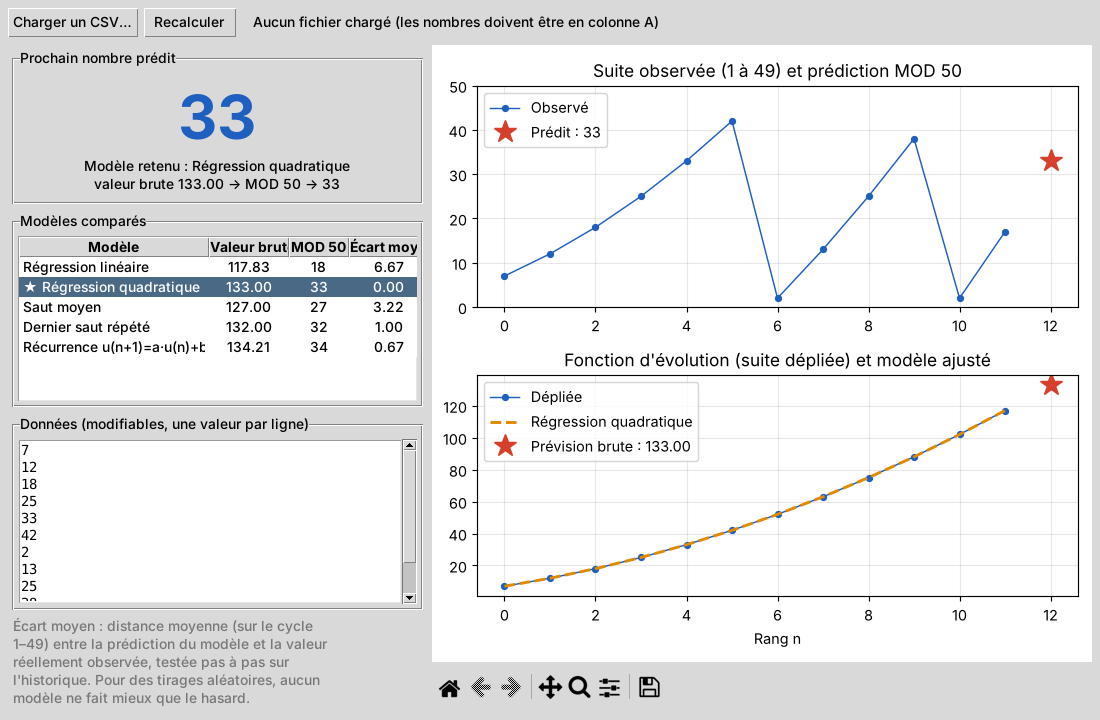
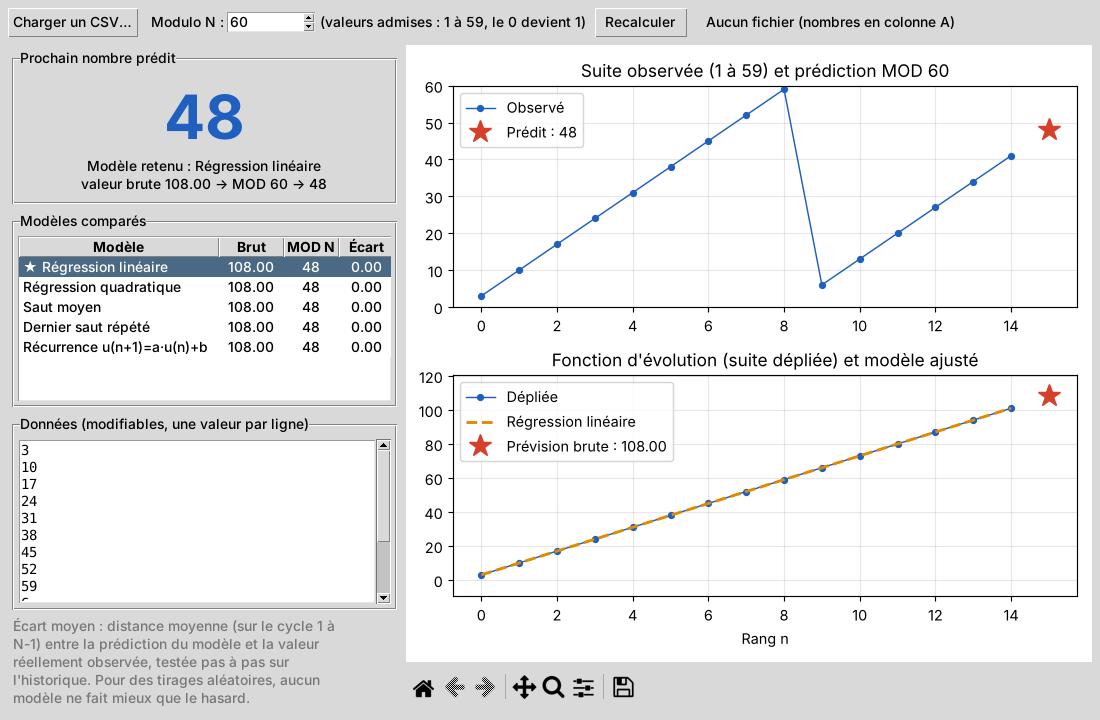
Modulo N au choix (50 par défaut), même méthode de prédiction
Claude-Session: https://claude.ai/code/session_01QraCVY91thQQt767NMuY7g

diff --git a/moteur.py b/moteur.py
@@ -1,14 +1,16 @@
-"""Moteur de modélisation et de prédiction pour les suites de nombres de 1 à 49.
+"""Moteur de modélisation et de prédiction pour les suites de nombres de 1 à N-1.
 
 Principe
 --------
-1. La suite brute u(0..n-1) est "dépliée" : chaque saut u(i) - u(i-1) est ramené
-   modulo 50 dans l'intervalle [-24, 25], puis cumulé. On obtient ainsi une courbe
+Le modulo N est au choix (50 par défaut) ; les valeurs admises vont de 1 à N-1.
+
+1. La suite brute est "dépliée" : chaque saut u(i) - u(i-1) est ramené modulo N
+   dans l'intervalle ]-N/2, N/2], puis cumulé. On obtient ainsi une courbe
    continue qui représente la fonction d'évolution sans les retours à 1.
 2. Plusieurs modèles sont ajustés sur cette courbe dépliée.
 3. Chaque modèle est évalué par validation glissante (on le refait sur le début de la
    suite et on compare sa prédiction à la valeur réellement observée ensuite).
-4. La prédiction est ramenée dans l'intervalle par MOD 50. Le résultat 0 n'étant pas
+4. La prédiction est ramenée dans l'intervalle par MOD N. Le résultat 0 n'étant pas
    admis, un 0 est remplacé par 1 (on passe à la valeur suivante du cycle).
 """
 
@@ -17,29 +19,36 @@ import io
 
 import numpy as np
 
-MODULO = 50
-VAL_MIN, VAL_MAX = 1, 49
+MODULO_DEFAUT = 50
+MODULO_MIN, MODULO_MAX = 3, 100000
 
 
-def mod50(x):
-    """Ramène un nombre réel dans 1..49 avec la règle MOD 50 (0 interdit -> 1)."""
-    r = int(round(x)) % MODULO
+def verifier_modulo(n):
+    n = int(n)
+    if not MODULO_MIN <= n <= MODULO_MAX:
+        raise ValueError(f"Le modulo N doit être compris entre {MODULO_MIN} et {MODULO_MAX}.")
+    return n
+
+
+def reduire(x, n=MODULO_DEFAUT):
+    """Ramène un nombre réel dans 1..N-1 avec la règle MOD N (0 interdit -> 1)."""
+    r = int(round(x)) % n
     return 1 if r == 0 else r
 
 
-def ecart_circulaire(a, b):
-    """Distance entre deux valeurs sur le cycle MOD 50 (0 à 25)."""
-    d = abs(int(a) - int(b)) % MODULO
-    return min(d, MODULO - d)
+def ecart_circulaire(a, b, n=MODULO_DEFAUT):
+    """Distance entre deux valeurs sur le cycle MOD N (0 à N/2)."""
+    d = abs(int(a) - int(b)) % n
+    return min(d, n - d)
 
 
-def deplier(valeurs):
-    """Transforme la suite brute en courbe continue (sauts ramenés dans [-24, 25])."""
+def deplier(valeurs, n=MODULO_DEFAUT):
+    """Transforme la suite brute en courbe continue (sauts ramenés dans ]-N/2, N/2])."""
     out = [float(valeurs[0])]
     for prec, cour in zip(valeurs, valeurs[1:]):
-        saut = (cour - prec) % MODULO
-        if saut > MODULO // 2:
-            saut -= MODULO
+        saut = (cour - prec) % n
+        if saut > n // 2:
+            saut -= n
         out.append(out[-1] + saut)
     return np.array(out)
 
@@ -92,26 +101,32 @@ MODELES = [
 ]
 
 
-def evaluer(fonction, valeurs, minimum):
+def evaluer(fonction, valeurs, minimum, n=MODULO_DEFAUT):
     """Erreur moyenne (sur le cycle) des prédictions faites pas à pas sur l'historique."""
     erreurs = []
     debut = max(minimum, 3)
     for k in range(debut, len(valeurs)):
-        y = deplier(valeurs[:k])
+        y = deplier(valeurs[:k], n)
         try:
             _, p = fonction(y)
         except (np.linalg.LinAlgError, ValueError):
             continue
         if np.isfinite(p):
-            erreurs.append(ecart_circulaire(mod50(p), valeurs[k]))
+            erreurs.append(ecart_circulaire(reduire(p, n), valeurs[k], n))
     return (float(np.mean(erreurs)), len(erreurs)) if erreurs else (float("nan"), 0)
 
 
-def analyser(valeurs):
+def analyser(valeurs, n=MODULO_DEFAUT):
     """Analyse complète. Renvoie un dict avec la courbe dépliée, les modèles et le meilleur."""
     if len(valeurs) < 3:
         raise ValueError("Il faut au moins 3 nombres pour modéliser la suite.")
-    y = deplier(valeurs)
+    n = verifier_modulo(n)
+    hors = [v for v in valeurs if not 1 <= v <= n - 1]
+    if hors:
+        raise ValueError(f"Avec N = {n}, les valeurs doivent être entre 1 et {n - 1}. "
+                         f"Valeur(s) hors intervalle : {', '.join(map(str, sorted(set(hors))[:10]))}. "
+                         f"Choisissez N ≥ {max(valeurs) + 1}.")
+    y = deplier(valeurs, n)
     resultats = []
     for nom, fonction, minimum in MODELES:
         if len(valeurs) < minimum:
@@ -122,12 +137,12 @@ def analyser(valeurs):
             continue
         if not np.isfinite(p):
             continue
-        erreur, nb = evaluer(fonction, valeurs, minimum)
+        erreur, nb = evaluer(fonction, valeurs, minimum, n)
         resultats.append({
             "nom": nom,
             "ajustement": ajust,
             "prediction_brute": p,
-            "prediction": mod50(p),
+            "prediction": reduire(p, n),
             "erreur": erreur,
             "nb_tests": nb,
         })
@@ -135,12 +150,14 @@ def analyser(valeurs):
         raise ValueError("Aucun modèle n'a pu être ajusté sur ces données.")
     testes = [r for r in resultats if r["nb_tests"] > 0]
     meilleur = min(testes, key=lambda r: r["erreur"]) if testes else resultats[0]
-    return {"valeurs": list(valeurs), "deplie": y, "modeles": resultats, "meilleur": meilleur}
+    return {"valeurs": list(valeurs), "n": n, "deplie": y, "modeles": resultats, "meilleur": meilleur}
 
 
 # --------------------------------------------------------------------------- CSV
 def lire_csv(chemin):
-    """Lit la colonne A d'un fichier CSV. Renvoie (valeurs, avertissements)."""
+    """Lit les entiers positifs de la colonne A d'un CSV. Renvoie (valeurs, avertissements).
+
+    La vérification par rapport au modulo N est faite au moment de l'analyse."""
     with open(chemin, "rb") as f:
         brut = f.read()
     for enc in ("utf-8-sig", "cp1252", "latin-1"):
@@ -168,8 +185,8 @@ def lire_csv(chemin):
                 continue  # ligne d'en-tête
             avertissements.append(f"Ligne {num} ignorée : « {ligne[0]} » n'est pas un nombre.")
             continue
-        if v != int(v) or not VAL_MIN <= v <= VAL_MAX:
-            avertissements.append(f"Ligne {num} ignorée : {ligne[0]} n'est pas un entier entre 1 et 49.")
+        if v != int(v) or v < 1:
+            avertissements.append(f"Ligne {num} ignorée : {ligne[0]} n'est pas un entier positif.")
             continue
         valeurs.append(int(v))
     return valeurs, avertissements

diff --git a/modulo49.py b/modulo49.py
@@ -1,4 +1,4 @@
-"""Modulo49 : modélisation de suites de nombres (1 à 49) et prédiction MOD 50."""
+"""Modulo49 : modélisation de suites de nombres (1 à N-1) et prédiction MOD N, N au choix."""
 
 import os
 import sys
@@ -12,7 +12,7 @@ from matplotlib.figure import Figure
 
 import moteur
 
-TITRE = "Modulo49 – Modélisation et prédiction MOD 50"
+TITRE = "Modulo49 – Modélisation et prédiction MOD N"
 
 
 class Application(tk.Tk):
@@ -30,8 +30,16 @@ class Application(tk.Tk):
         haut = ttk.Frame(self, padding=8)
         haut.pack(fill="x")
         ttk.Button(haut, text="Charger un CSV…", command=self.charger).pack(side="left")
-        ttk.Button(haut, text="Recalculer", command=self.recalculer).pack(side="left", padx=6)
-        self.lbl_fichier = ttk.Label(haut, text="Aucun fichier chargé (les nombres doivent être en colonne A)")
+        ttk.Label(haut, text="Modulo N :").pack(side="left", padx=(12, 2))
+        self.var_n = tk.StringVar(value=str(moteur.MODULO_DEFAUT))
+        champ_n = ttk.Spinbox(haut, from_=moteur.MODULO_MIN, to=moteur.MODULO_MAX, width=7,
+                              textvariable=self.var_n, command=self.recalculer)
+        champ_n.pack(side="left")
+        champ_n.bind("<Return>", lambda e: self.recalculer())
+        self.lbl_intervalle = ttk.Label(haut, text="(valeurs admises : 1 à 49, le 0 devient 1)")
+        self.lbl_intervalle.pack(side="left", padx=(4, 0))
+        ttk.Button(haut, text="Recalculer", command=self.recalculer).pack(side="left", padx=8)
+        self.lbl_fichier = ttk.Label(haut, text="Aucun fichier (nombres en colonne A)")
         self.lbl_fichier.pack(side="left", padx=10)
 
         corps = ttk.PanedWindow(self, orient="horizontal")
@@ -52,7 +60,7 @@ class Application(tk.Tk):
         colonnes = ("modele", "brut", "pred", "erreur")
         self.table = ttk.Treeview(cadre_mod, columns=colonnes, show="headings", height=6)
         for col, titre, larg in zip(colonnes,
-                                    ("Modèle", "Brut", "MOD 50", "Écart"),
+                                    ("Modèle", "Brut", "MOD N", "Écart"),
                                     (200, 65, 55, 55)):
             self.table.heading(col, text=titre)
             self.table.column(col, width=larg, anchor="w" if col == "modele" else "center")
@@ -68,7 +76,7 @@ class Application(tk.Tk):
         self.txt.configure(yscrollcommand=sb.set)
 
         ttk.Label(gauche, wraplength=330, foreground="#777", justify="left",
-                  text="Écart moyen : distance moyenne (sur le cycle 1–49) entre la prédiction "
+                  text="Écart moyen : distance moyenne (sur le cycle 1 à N-1) entre la prédiction "
                        "du modèle et la valeur réellement observée, testée pas à pas sur "
                        "l'historique. Pour des tirages aléatoires, aucun modèle ne fait mieux "
                        "que le hasard.").pack(fill="x", pady=(6, 0))
@@ -104,7 +112,23 @@ class Application(tk.Tk):
             messagebox.showwarning(TITRE, f"{len(avert)} ligne(s) ignorée(s) :\n\n{extrait}")
         self.recalculer()
 
+    def _modulo(self):
+        try:
+            n = moteur.verifier_modulo(self.var_n.get())
+        except ValueError:
+            messagebox.showerror(TITRE, f"Le modulo N doit être un entier entre "
+                                        f"{moteur.MODULO_MIN} et {moteur.MODULO_MAX}.")
+            return None
+        self.lbl_intervalle.config(text=f"(valeurs admises : 1 à {n - 1}, le 0 devient 1)")
+        self.title(f"Modulo49 – Modélisation et prédiction MOD {n}")
+        return n
+
     def recalculer(self):
+        n = self._modulo()
+        if n is None:
+            return
+        if not self.txt.get("1.0", "end").strip():
+            return
         valeurs = []
         for i, ligne in enumerate(self.txt.get("1.0", "end").split(), start=1):
             try:
@@ -112,12 +136,12 @@ class Application(tk.Tk):
             except ValueError:
                 messagebox.showerror(TITRE, f"Valeur {i} invalide : « {ligne} »")
                 return
-            if not 1 <= v <= 49:
-                messagebox.showerror(TITRE, f"Valeur {i} hors intervalle (1 à 49) : {v}")
+            if v < 1:
+                messagebox.showerror(TITRE, f"Valeur {i} invalide : {v} (0 et négatifs non admis)")
                 return
             valeurs.append(v)
         try:
-            self.analyse = moteur.analyser(valeurs)
+            self.analyse = moteur.analyser(valeurs, n)
         except ValueError as e:
             messagebox.showerror(TITRE, str(e))
             return
@@ -133,7 +157,7 @@ class Application(tk.Tk):
         self.lbl_pred.config(text=str(meilleur["prediction"]))
         self.lbl_modele.config(
             text=f"Modèle retenu : {meilleur['nom']}\n"
-                 f"valeur brute {meilleur['prediction_brute']:.2f} → MOD 50 → {meilleur['prediction']}")
+                 f"valeur brute {meilleur['prediction_brute']:.2f} → MOD {n} → {meilleur['prediction']}")
         self.dessiner()
 
     def _modele_selectionne(self):
@@ -149,8 +173,9 @@ class Application(tk.Tk):
         for ax in (self.ax_brut, self.ax_deplie):
             ax.clear()
             ax.grid(alpha=0.3)
-        self.ax_brut.set_title("Suite observée (1 à 49) et prédiction MOD 50")
-        self.ax_brut.set_ylim(0, 50)
+        n = self.analyse["n"] if self.analyse else moteur.MODULO_DEFAUT
+        self.ax_brut.set_title(f"Suite observée (1 à {n - 1}) et prédiction MOD {n}")
+        self.ax_brut.set_ylim(0, n)
         self.ax_deplie.set_title("Fonction d'évolution (suite dépliée) et modèle ajusté")
         self.ax_deplie.set_xlabel("Rang n")
         modele = self._modele_selectionne()

diff --git a/README.md b/README.md
@@ -1,17 +1,17 @@
 # Modulo49
 
-Programme Windows qui modélise la fonction d'évolution d'une suite de nombres compris entre 1 et 49 et prédit le nombre suivant avec la règle MOD 50 (le résultat 0 n'est pas admis).
+Programme Windows qui modélise la fonction d'évolution d'une suite de nombres et prédit le nombre suivant avec la règle **MOD N**, N étant choisi par l'utilisateur (50 par défaut). Les valeurs admises vont de 1 à N-1 ; le résultat 0 n'est pas admis.
 
 ## Utilisation
-1. Lancer **Modulo49**, cliquer sur **Charger un CSV…**.
-2. Les nombres sont lus dans la **colonne A** (une ligne d'en-tête est tolérée ; séparateurs `;` `,` ou tabulation acceptés). Les valeurs hors 1–49 sont signalées et ignorées.
+1. Lancer **Modulo49**, choisir le **Modulo N** en haut de la fenêtre (flèches ou saisie + Entrée), puis cliquer sur **Charger un CSV…**.
+2. Les nombres sont lus dans la **colonne A** (une ligne d'en-tête est tolérée ; séparateurs `;` `,` ou tabulation acceptés). Les lignes non numériques sont signalées et ignorées. Si une valeur dépasse N-1, le programme indique le N minimum à choisir.
 3. Le programme affiche le **prochain nombre prédit**, le tableau des modèles et deux graphiques. La liste des données peut être modifiée à la main, puis **Recalculer**.
 
 ## Méthode
-- **Dépliage** : chaque saut entre deux nombres est ramené dans [-24 ; 25] modulo 50 puis cumulé. Exemple : 42 → 2 est lu comme +10 et non -40. On obtient une courbe continue, la « fonction d'évolution ».
+- **Dépliage** : chaque saut entre deux nombres est ramené modulo N dans ]-N/2 ; N/2] puis cumulé. Exemple avec N = 50 : 42 → 2 est lu comme +10 et non -40. On obtient une courbe continue, la « fonction d'évolution ».
 - **Modèles ajustés** sur cette courbe : régression linéaire, régression quadratique, saut moyen, dernier saut répété, récurrence affine u(n+1) = a·u(n) + b.
 - **Choix du modèle** : chaque modèle est testé pas à pas sur l'historique ; celui dont l'écart moyen avec les valeurs réelles est le plus faible est retenu (★). Cliquer sur une autre ligne du tableau affiche ce modèle sur le graphique.
-- **MOD 50** : la prévision brute est arrondie puis réduite modulo 50. Si le résultat vaut 0, il est remplacé par **1** (valeur suivante du cycle).
+- **MOD N** : la prévision brute est arrondie puis réduite modulo N. Si le résultat vaut 0, il est remplacé par **1** (valeur suivante du cycle). Changer N relance immédiatement tout le calcul.
 
 ## Limite importante
 Pour une suite qui suit une loi (progression, accélération régulière…), la prédiction est exacte. Pour des **tirages aléatoires** (loto, etc.), aucun modèle ne peut prédire le nombre suivant mieux que le hasard : l'écart moyen affiché le montre.
